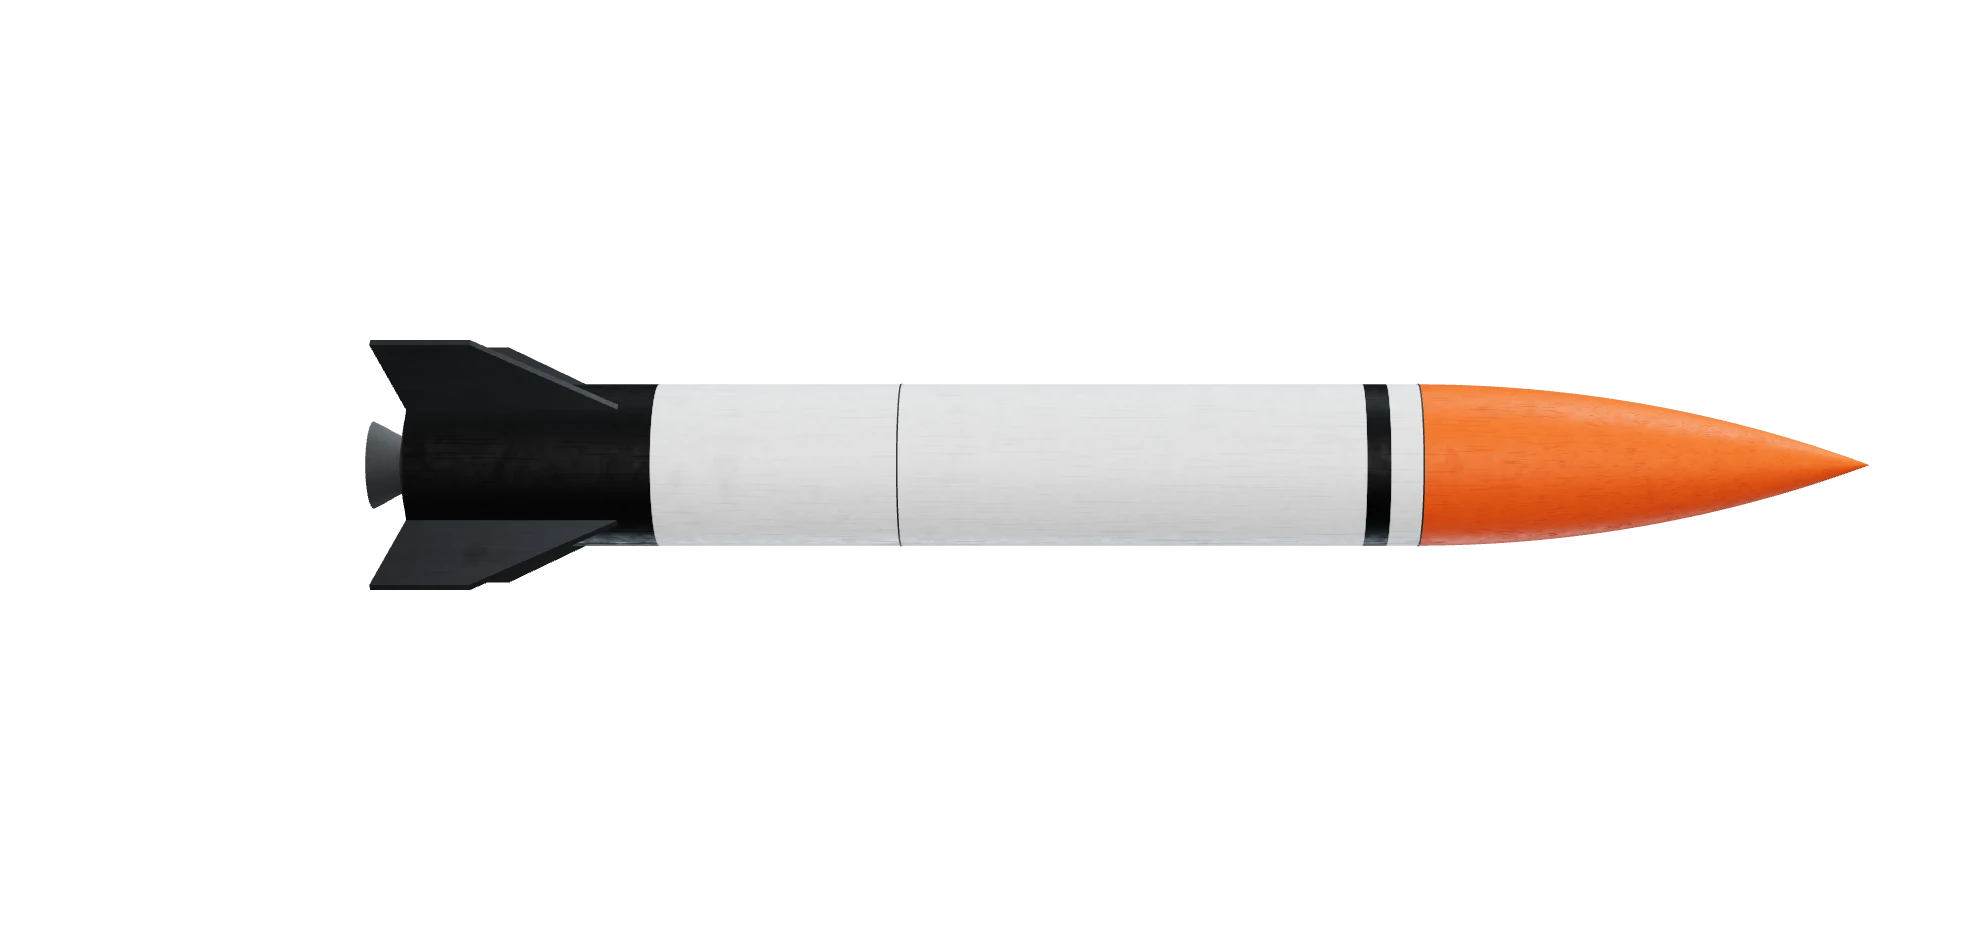
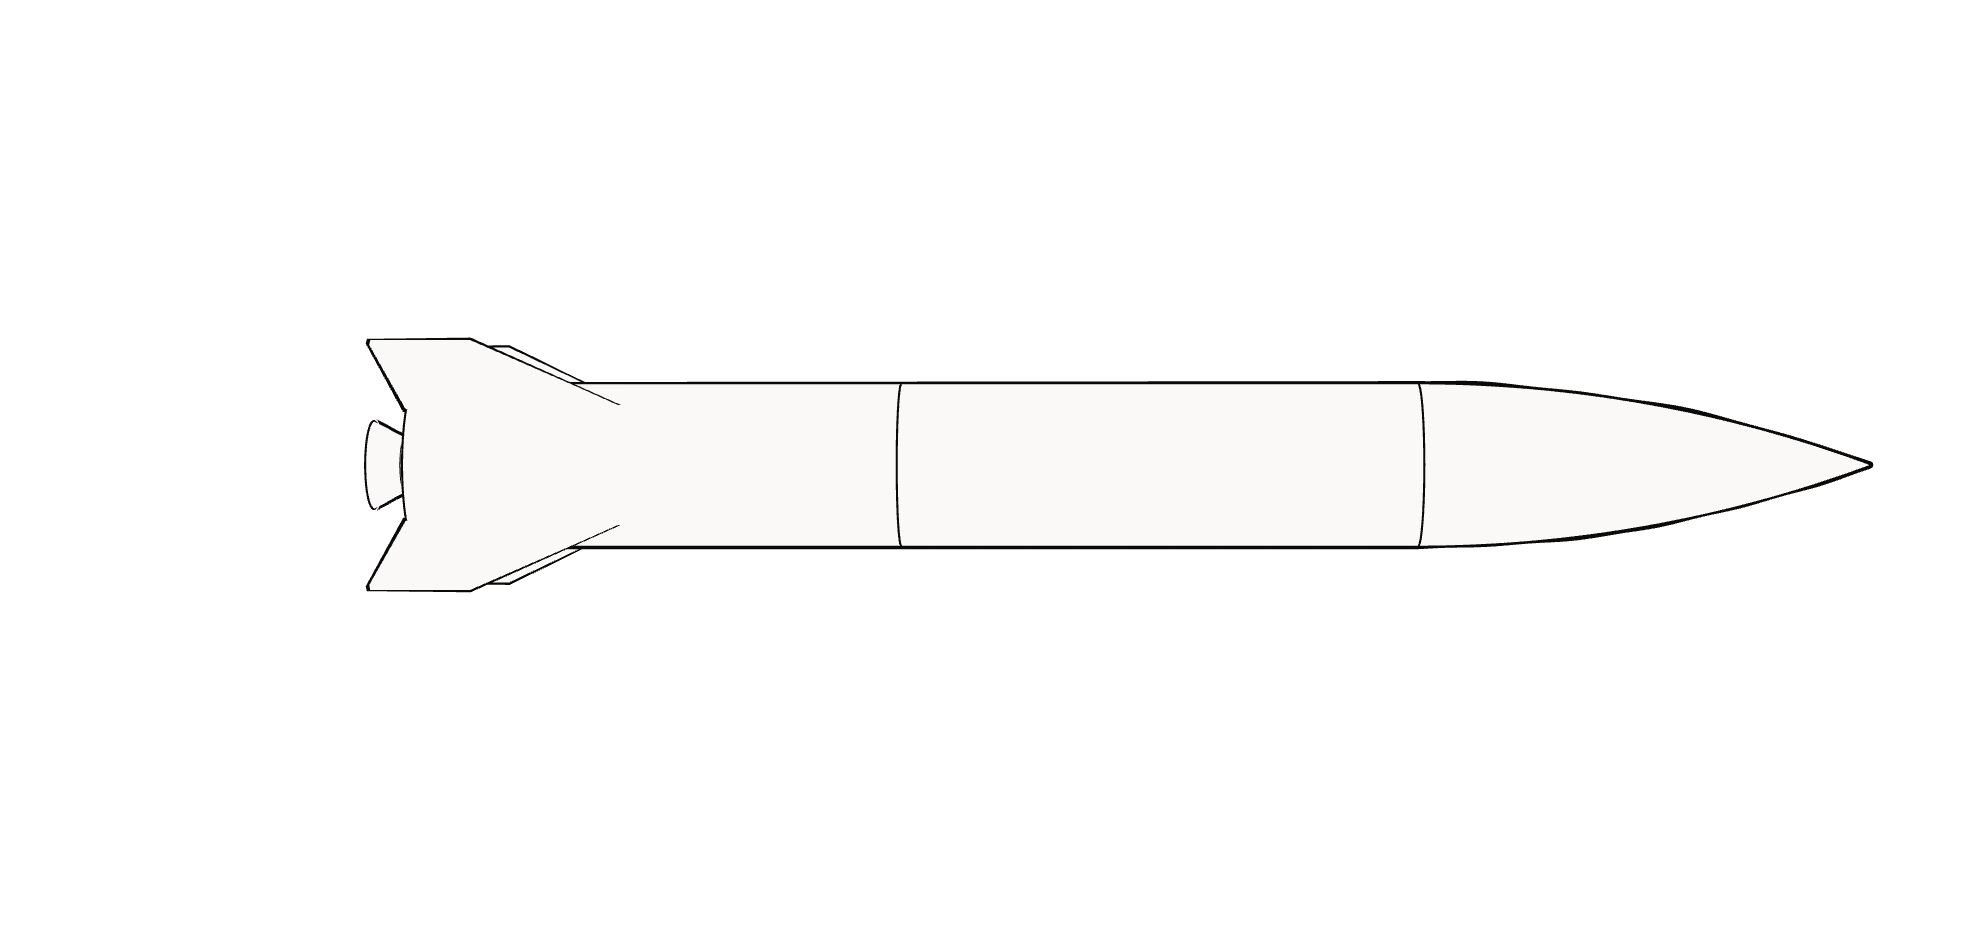
feat: Placeholder rocket should be an outline drawing, not a painted 3D model (#362)
* feat(landing): draw the placeholder rocket as a pen outline (#360)

Paper fill, unlit, and ink lines on the silhouette and hard edges: an
inverted hull pushed out in screen pixels with a fixed, uneven pen
weight, plus ink rims at the tail, body joint, nose shoulder and bell.
No livery, paint, shadows or weathering. Geometry and motion unchanged;
Cavour untouched. Re-rendered both placeholder stills.

* fix(preview): show the placeholder rocket sample on previews with a database (#360)

The sample page gated on dummy mode, which is off on a preview with its
seeded database, so /preview/placeholder-rocket answered 404 there. It now
gates on samplePagesOn: every preview and next dev, never production.

---------

Changed region(s): [[0.186, 0.343, 0.9609, 0.6548]]

diff --git a/components/landing/rocket-placeholder.tsx b/components/landing/rocket-placeholder.tsx
@@ -1,21 +1,15 @@
 "use client";
 
+import { useLayoutEffect, useMemo } from "react";
+import { useThree } from "@react-three/fiber";
 import * as THREE from "three";
+import { mergeVertices } from "three/examples/jsm/utils/BufferGeometryUtils.js";
+import { LineSegments2 } from "three/examples/jsm/lines/LineSegments2.js";
+import { LineSegmentsGeometry } from "three/examples/jsm/lines/LineSegmentsGeometry.js";
+import { LineMaterial } from "three/examples/jsm/lines/LineMaterial.js";
 import { brand } from "@/lib/brand-colors";
 import type { WeatherUniforms } from "./hero-weathering";
-import {
-  DEG,
-  FIN_THICKNESS_OF_SPAN,
-  finGeometry,
-  hullMaterials,
-  lathe,
-  nozzleGeometry,
-  ogive,
-  paintMaterial,
-  useCanvasWeather,
-  weatherFor,
-  type HullMaterials,
-} from "./rocket-parts";
+import { DEG, FIN_THICKNESS_OF_SPAN, finGeometry, lathe, nozzleGeometry, ogive } from "./rocket-parts";
 
 // The placeholder rocket: one generic vehicle every project draws until its
 // own model is written in code (issue #296). It is no real vehicle, so no
@@ -25,8 +19,10 @@ import {
 // by the holder at the bottom. It carries no name, flag or logo, because it
 // stands in for any project.
 //
-// Its look is the owner's call on the preview: a paper hull with a signal
-// orange nose and an ink band at the tail, from the brand colours.
+// Its look is a pen drawing, so it reads as "model coming" and not as a
+// vehicle the team built (issue #360): a flat, unlit paper fill and ink
+// lines on the silhouette and the hard edges, with no paint, shading or
+// weathering. Only Cavour's shapes are shared; its materials are not used.
 
 const R = 0.05; // body radius, as Cavour
 const NOSE_START = 0.62; // where the body tube ends
@@ -44,95 +40,199 @@ const FIN_OUTLINE: [number, number][] = [
 ];
 const FIN_THICKNESS = FIN_THICKNESS_OF_SPAN * 0.1675;
 
-const SEAM_Y = [0.3, NOSE_START]; // the body joint and the nose shoulder
-const SEAM_R = 0.0504;
-const SEAM_H = 0.0009;
-
-// The livery, as axial bands from the tail: ink up to the fins' leading edge,
-// paper to the nose shoulder, a thin ink ring, then the orange nose.
-const BANDS: { to: number; color: string }[] = [
-  { to: 0.15, color: brand.ground },
-  { to: 0.585, color: brand.text },
-  { to: 0.6, color: brand.ground },
-  { to: NOSE_START, color: brand.text },
-  { to: TIP, color: brand.accent },
+// The round hard edges, inked as rings a hair outside the skin: the tail
+// rim, the body joint, the nose shoulder and the bell's mouth.
+const RIMS: { y: number; r: number }[] = [
+  { y: 0, r: 0.0504 },
+  { y: 0.3, r: 0.0504 },
+  { y: NOSE_START, r: 0.0504 },
+  { y: -0.027, r: 0.0272 },
 ];
 
 // The bell's mouth is the lowest point: y = -0.027 (nozzleGeometry).
 const BBOX_MIN = -0.027;
 const BBOX_LEN = TIP - BBOX_MIN;
 
-// The bands drawn into a canvas on the hull's UV rule (v = 1 − y/TIP, nose at
-// the top of the image), so the wrap needs no file.
-function liveryTexture(): THREE.CanvasTexture {
-  const W = 8;
-  const H = 1024;
-  const canvas = document.createElement("canvas");
-  canvas.width = W;
-  canvas.height = H;
-  const ctx = canvas.getContext("2d")!;
-  let from = 0;
-  for (const band of BANDS) {
-    const top = Math.round((1 - band.to / TIP) * H);
-    const bottom = Math.round((1 - from / TIP) * H);
-    ctx.fillStyle = band.color;
-    ctx.fillRect(0, top, W, bottom - top);
-    from = band.to;
+// Line weights in CSS pixels, the same at any canvas size. The silhouette
+// swells and thins along the hull (pen() in OUTLINE_VERTEX), like a pen
+// stroke; the rims are a finer pen.
+const OUTLINE_PX = 2.6;
+const RIM_PX = 1.4;
+
+// The paper the drawing is filled with and the ink it is drawn in.
+const PAPER = brand.text;
+const INK = brand.ground;
+
+// The outline is an inverted hull: each part's back faces, pushed out along
+// their normals by a width in screen pixels, so it shows only where it
+// clears the part, at its silhouette. The width follows a fixed wobble of
+// the part's own position, so the stroke is uneven but holds still: nothing
+// changes per frame, and a card at rest still draws no frames.
+const OUTLINE_VERTEX = /* glsl */ `
+  uniform vec2 uResolution;
+  uniform float uWidth;
+  float pen(vec3 p) {
+    return 0.86
+      + 0.20 * sin(dot(p, vec3(29.0, 43.0, 31.0)))
+      + 0.12 * sin(dot(p, vec3(-67.0, 109.0, 53.0)) + 1.7);
   }
-  const tex = new THREE.CanvasTexture(canvas);
-  tex.flipY = false;
-  tex.colorSpace = THREE.SRGBColorSpace;
-  tex.anisotropy = 8;
-  return tex;
+  void main() {
+    vec4 clip = projectionMatrix * modelViewMatrix * vec4(position, 1.0);
+    vec2 dir = (projectionMatrix * vec4(normalMatrix * normal, 0.0)).xy * uResolution;
+    float len = length(dir);
+    if (len > 1e-6) {
+      clip.xy += (dir / len) * uWidth * pen(position) * 2.0 / uResolution * clip.w;
+    }
+    gl_Position = clip;
+  }
+`;
+const OUTLINE_FRAGMENT = /* glsl */ `
+  uniform vec3 uInk;
+  void main() {
+    gl_FragColor = vec4(uInk, 1.0);
+    #include <colorspace_fragment>
+  }
+`;
+
+// The fin's hull. A plate's own normals point square off each face, so a
+// hull pushed along them splits at the edges, and averaged normals lean
+// almost all the way to the broad faces. Instead every corner is pushed
+// straight out from the plate's middle, in its plane (the outline lies in xy,
+// extruded along z), so the hull rims the plate's outline evenly.
+function plateHull(g: THREE.BufferGeometry, outline: [number, number][]): THREE.BufferGeometry {
+  const plain = g.clone();
+  plain.deleteAttribute("normal");
+  plain.deleteAttribute("uv");
+  const out = mergeVertices(plain, 1e-6);
+  const cx = outline.reduce((s, [x]) => s + x, 0) / outline.length;
+  const cy = outline.reduce((s, [, y]) => s + y, 0) / outline.length;
+  const pos = out.getAttribute("position");
+  const nor: number[] = [];
+  for (let i = 0; i < pos.count; i++) {
+    const dx = pos.getX(i) - cx;
+    const dy = pos.getY(i) - cy;
+    const len = Math.hypot(dx, dy) || 1;
+    nor.push(dx / len, dy / len, 0);
+  }
+  out.setAttribute("normal", new THREE.Float32BufferAttribute(nor, 3));
+  return out;
+}
+
+/** A unit ring around the hull axis at y = 0, as line segments. */
+function unitRing(segments: number): LineSegmentsGeometry {
+  const pts: number[] = [];
+  for (let i = 0; i < segments; i++) {
+    const a = (i / segments) * Math.PI * 2;
+    const b = ((i + 1) / segments) * Math.PI * 2;
+    pts.push(Math.cos(a), 0, Math.sin(a), Math.cos(b), 0, Math.sin(b));
+  }
+  return new LineSegmentsGeometry().setPositions(pts);
 }
 
 function buildGeometry() {
   const body: [number, number][] = [[0, R], ...ogive(NOSE_START, NOSE_LENGTH, R, 48)];
+  const fin = finGeometry(FIN_OUTLINE, FIN_THICKNESS);
   return {
     body: lathe(body, 128, TIP),
-    seam: lathe([[-SEAM_H / 2, SEAM_R], [SEAM_H / 2, SEAM_R]], 96, TIP),
     ...nozzleGeometry(TIP),
     tail: new THREE.CircleGeometry(R, 96),
-    fin: finGeometry(FIN_OUTLINE, FIN_THICKNESS),
+    fin,
+    finHull: plateHull(fin, FIN_OUTLINE),
+    rim: unitRing(96),
   };
 }
 
-// Built once per page, not once per canvas, as Cavour's parts are.
-let shared: { geo: ReturnType<typeof buildGeometry>; mats: HullMaterials & { livery: THREE.Material } } | null =
-  null;
+// Built once per page, not once per canvas, as Cavour's parts are. The fill
+// and the ink are unlit and skip tone mapping, so they land exactly on the
+// brand colours.
+let shared: {
+  geo: ReturnType<typeof buildGeometry>;
+  paper: THREE.MeshBasicMaterial;
+  ink: THREE.MeshBasicMaterial;
+} | null = null;
 function placeholderParts() {
   return (shared ??= {
     geo: buildGeometry(),
-    mats: { livery: paintMaterial(liveryTexture(), 0.6, false, weatherFor), ...hullMaterials(weatherFor) },
+    paper: new THREE.MeshBasicMaterial({ color: PAPER, toneMapped: false }),
+    ink: new THREE.MeshBasicMaterial({ color: INK, toneMapped: false, side: THREE.DoubleSide }),
   });
 }
 
-export default function PlaceholderBuilt({ weather, length }: { weather: WeatherUniforms; length: number }) {
-  const { geo, mats } = placeholderParts();
-  useCanvasWeather(weather);
+// The line materials carry their canvas's size, so each canvas has its own.
+function useLines() {
+  const width = useThree((s) => s.size.width);
+  const height = useThree((s) => s.size.height);
+  const invalidate = useThree((s) => s.invalidate);
+  const lines = useMemo(
+    () => ({
+      outline: new THREE.ShaderMaterial({
+        uniforms: {
+          uResolution: { value: new THREE.Vector2(1, 1) },
+          uWidth: { value: OUTLINE_PX },
+          uInk: { value: new THREE.Color(INK) },
+        },
+        vertexShader: OUTLINE_VERTEX,
+        fragmentShader: OUTLINE_FRAGMENT,
+        side: THREE.BackSide,
+        toneMapped: false,
+      }),
+      rim: new LineMaterial({ color: INK, linewidth: RIM_PX, toneMapped: false }),
+    }),
+    [],
+  );
+  useLayoutEffect(() => {
+    lines.outline.uniforms.uResolution.value.set(width, height);
+    lines.rim.resolution.set(width, height);
+    invalidate();
+  }, [lines, width, height, invalidate]);
+  useLayoutEffect(
+    () => () => {
+      lines.outline.dispose();
+      lines.rim.dispose();
+    },
+    [lines],
+  );
+  return lines;
+}
+
+export default function PlaceholderBuilt({ length }: { weather: WeatherUniforms; length: number }) {
+  const { geo, paper, ink } = placeholderParts();
+  const lines = useLines();
+  // Line widths are in pixels, so scaling a ring changes its radius only.
+  const rims = useMemo(
+    () =>
+      RIMS.map(({ y, r }) => {
+        const line = new LineSegments2(geo.rim, lines.rim);
+        line.position.y = y;
+        line.scale.setScalar(r);
+        return line;
+      }),
+    [geo, lines],
+  );
 
   const scale = length / BBOX_LEN;
-  const shadow = { castShadow: true, receiveShadow: true };
+  // Each part twice: its paper fill, then its ink hull.
+  const part = (key: string, fill: THREE.BufferGeometry, hull: THREE.BufferGeometry = fill) => [
+    <mesh key={`${key}-fill`} geometry={fill} material={paper} />,
+    <mesh key={`${key}-ink`} geometry={hull} material={lines.outline} />,
+  ];
   return (
     <group rotation-z={-Math.PI / 2} scale={scale}>
       <group position-y={-(BBOX_MIN + BBOX_LEN / 2)}>
-        <mesh geometry={geo.body} material={mats.livery} {...shadow} />
+        {part("body", geo.body)}
         {/* tail bulkhead so the tube never reads hollow */}
-        <mesh geometry={geo.tail} rotation-x={Math.PI / 2} material={mats.seam} position-y={0.0005} />
-        {SEAM_Y.map((y) => (
-          <mesh key={y} geometry={geo.seam} material={mats.seam} position-y={y} />
+        <mesh geometry={geo.tail} rotation-x={Math.PI / 2} material={paper} position-y={0.0005} />
+        {rims.map((line) => (
+          <primitive key={line.position.y} object={line} />
         ))}
-        <mesh geometry={geo.ring} material={mats.aluminium} {...shadow} />
-        <mesh geometry={geo.throat} material={mats.seam} />
-        <mesh geometry={geo.bell} material={mats.titanium} {...shadow} />
+        {part("ring", geo.ring)}
+        {/* the throat is a hole, so it is inked solid, as a pen drawing fills one */}
+        <mesh geometry={geo.throat} material={ink} />
+        {part("bell", geo.bell)}
         {[0, 1, 2, 3].map((k) => (
-          <mesh
-            key={k}
-            geometry={geo.fin}
-            material={mats.aluminium}
-            rotation-y={(45 + 90 * k) * DEG}
-            {...shadow}
-          />
+          <group key={k} rotation-y={(45 + 90 * k) * DEG}>
+            {part("fin", geo.fin, geo.finHull)}
+          </group>
         ))}
       </group>
     </group>

diff --git a/app/preview/placeholder-rocket/page.tsx b/app/preview/placeholder-rocket/page.tsx
@@ -4,9 +4,9 @@ import { LandingNavbar } from "@/components/landing/navbar";
 import { PageSky } from "@/components/landing/page-sky";
 import { HomeProjectCard } from "@/components/landing/project-card";
 import { ProjectHero } from "@/components/project-page/hero";
-import { dummyDataOn } from "@/lib/dummy-data/mode";
 import type { HomeCardView } from "@/lib/project-content/record";
 import type { Hero } from "@/lib/project-pages";
+import { samplePagesOn } from "@/lib/sample-pages";
 
 export const metadata: Metadata = {
   title: "Placeholder rocket · PoliTo Rocket Team",
@@ -16,7 +16,8 @@ export const metadata: Metadata = {
 // The placeholder rocket (issue #296) on a project with no model of its own:
 // its home card and its page hero, drawn by the same components as the real
 // projects. No project draws the placeholder until New project adds one, so
-// this sample lets a preview show it. Off dummy mode the route does not exist.
+// this sample lets a preview show it, with or without a database
+// (lib/sample-pages.ts). In production the route does not exist.
 
 const card: HomeCardView = {
   num: "04",
@@ -46,7 +47,7 @@ const hero: Hero = {
 };
 
 export default function PlaceholderRocketPreview() {
-  if (!dummyDataOn()) notFound();
+  if (!samplePagesOn()) notFound();
   return (
     <div className="relative bg-ground">
       <LandingNavbar />

diff --git a/lib/sample-pages.ts b/lib/sample-pages.ts
@@ -1,0 +1,21 @@
+// Sample pages (app/preview/*): fixed sample content that lets a reviewer see
+// a look no real record draws yet, such as the placeholder rocket (#296,
+// #360). They read no database and no dummy array, so they do not follow
+// dummy mode (lib/dummy-data/mode.ts): a preview with its seeded database
+// shows them too. Production never does; there the route answers 404.
+
+/** The two variables the gate reads. */
+export type SamplePagesEnv = {
+  readonly NODE_ENV?: string;
+  readonly VERCEL_ENV?: string;
+};
+
+function processSamplePagesEnv(): SamplePagesEnv {
+  return { NODE_ENV: process.env.NODE_ENV, VERCEL_ENV: process.env.VERCEL_ENV };
+}
+
+/** Whether sample pages exist: on a Vercel preview, or under `next dev` with no Vercel environment. */
+export function samplePagesOn(env: SamplePagesEnv = processSamplePagesEnv()): boolean {
+  if (env.VERCEL_ENV) return env.VERCEL_ENV === "preview";
+  return env.NODE_ENV === "development";
+}

diff --git a/lib/sample-pages.test.ts b/lib/sample-pages.test.ts
@@ -1,0 +1,10 @@
+import assert from "node:assert/strict";
+import { test } from "node:test";
+import { samplePagesOn } from "./sample-pages";
+
+test("sample pages show on every preview and under next dev, never in production", () => {
+  assert.equal(samplePagesOn({ NODE_ENV: "production", VERCEL_ENV: "preview" }), true);
+  assert.equal(samplePagesOn({ NODE_ENV: "development" }), true);
+  assert.equal(samplePagesOn({ NODE_ENV: "production", VERCEL_ENV: "production" }), false);
+  assert.equal(samplePagesOn({ NODE_ENV: "production" }), false, "local production build");
+});
